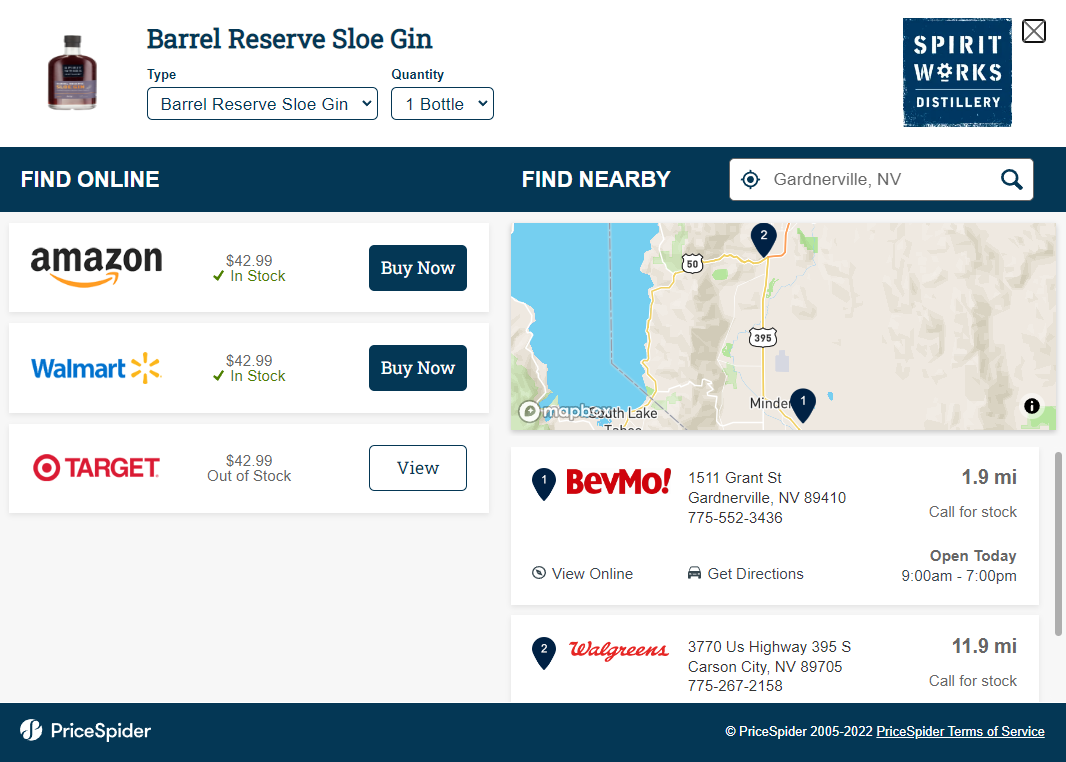
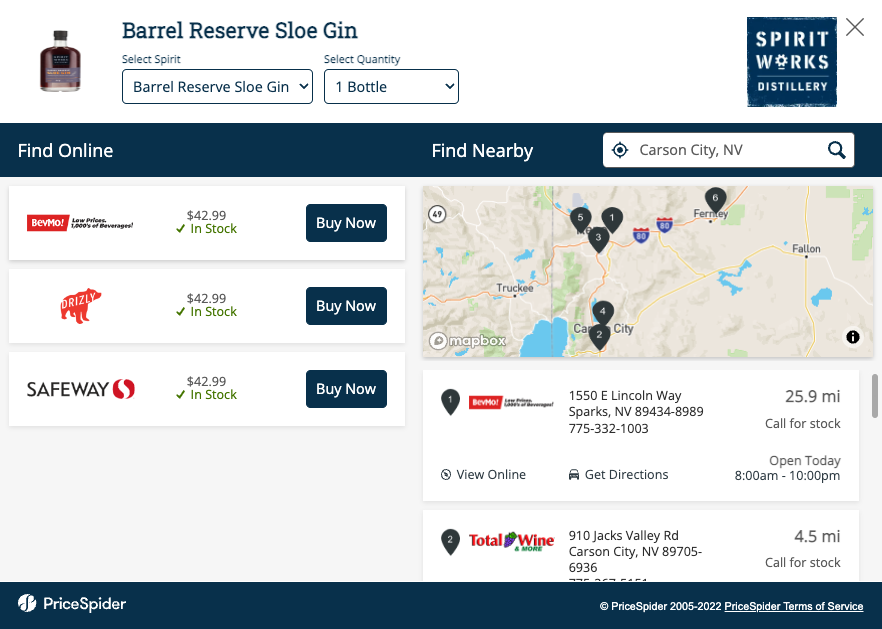
update README

diff --git a/templates/Product_Lightbox/script.js b/templates/Product_Lightbox/script.js
@@ -13,9 +13,9 @@ const onlineSellerImgs = []; // List of URL strings
 const localSellerImgs = []; // List of URL strings
 
 
-// ================================
-// MAKE CHANGES TO PRICESPIDER DATA
-// ================================
+// ==================================
+// MAKE CHANGES TO PRICESPIDER WIDGET
+// ==================================
 (function () {
     const psConfig = PriceSpider.widgetConfigs[widgetID];
 
@@ -59,15 +59,10 @@ const localSellerImgs = []; // List of URL strings
 
     const changeStockStatus = () => {
         PriceSpider.widgets[0].data.onlineSellers.forEach((seller, index) => {
-            if (index === 2) {
-                seller.status.outOfStock = true;
-                seller.stockStatus = 0;
-                seller.status.stock = "Out of Stock";
-            } else {
-                seller.status.inStock = true;
-                seller.stockStatus = 1;
-                seller.status.stock = "In Stock";
-            };
+            seller.status.inStock = true;
+            seller.status.outOfStock = false;
+            seller.stockStatus = 1;
+            seller.status.stock = "In Stock";
         });
     };
 
@@ -118,13 +113,11 @@ const localSellerImgs = []; // List of URL strings
 
     const changeLocalSellerImgs = () => {
         const localSellers = document.querySelectorAll(".ps-logo", ".ps-local-seller-button");
-        localSellers.forEach((seller, index) => seller.src = localSellerImgs[index]);
+        localSellerImgs.forEach((image, index) => localSellers[index].src = image);
     };
     
     const changeOnlineSellerImgs = () => {
-        const onlineSellers = document.querySelectorAll(".ps-online-seller-details-wrapper > div > img");
-        const lastSeller = document.querySelector(".ps-last-online-seller-details-wrapper > div > img");
-        onlineSellers.forEach((seller, index) => seller.src = onlineSellerImgs[index]);
-        lastSeller.src = onlineSellerImgs[onlineSellerImgs.length - 1];
+        const onlineSellers = document.querySelectorAll(".ps-online-seller-details-wrapper > div > img, .ps-last-online-seller-details-wrapper > div > img");
+        onlineSellerImgs.forEach((image, index) => onlineSellers[index].src = image)
     };
 })();

diff --git a/templates/Product_Lightbox/override.css b/templates/Product_Lightbox/override.css
@@ -71,18 +71,19 @@ div.ps-client-logo.inline>div>img {
     color: var(--dark-text);
 }
 
-.ps-product-selector > div {
+.ps-product-selector>div {
     display: flex;
     flex-direction: column;
     gap: 5px;
 }
 
 .ps-product-selector>div>label {
+    margin: 0;
     font-weight: 600;
     color: var(--dark-text);
 }
 
-.ps-product-selector > div > select {
+.ps-product-selector>div>select {
     height: auto;
     min-width: 150px;
     padding: 8px;
@@ -108,9 +109,10 @@ div.ps-client-logo.inline>div>img {
     border-color: var(--dark-text);
 }
 
-.ps-country-selector-holder > div > span {
+.ps-country-selector-holder>div>span {
     width: 100px;
-    margin-right: 100px; }
+    margin-right: 100px;
+}
 
 /* MAIN */
 .ps-ribbon {
@@ -124,10 +126,10 @@ div.ps-client-logo.inline>div>img {
     color: var(--ribbon-text);
 }
 
-.ps-ribbon.ps-desktop-left > div > div.ps-local-tab-label > label:hover, 
-.ps-ribbon.ps-desktop-left > div div.ps-online-tab-label > label:hover, 
-.ps-ribbon.ps-desktop-left > div > div.ps-local-tab-label > h2:hover, 
-.ps-ribbon.ps-desktop-left > div div.ps-online-tab-label > h2:hover {
+.ps-ribbon.ps-desktop-left>div>div.ps-local-tab-label>label:hover,
+.ps-ribbon.ps-desktop-left>div div.ps-online-tab-label>label:hover,
+.ps-ribbon.ps-desktop-left>div>div.ps-local-tab-label>h2:hover,
+.ps-ribbon.ps-desktop-left>div div.ps-online-tab-label>h2:hover {
     cursor: pointer;
 }
 
@@ -163,7 +165,7 @@ div.ps-client-logo.inline>div>img {
 }
 
 /* RESPONSIVE STYLES */
-@media screen and (min-width: 768px) {
+@media screen and (min-width: 767px) {
     .ps-product-selector {
         display: flex;
         gap: 12px;
@@ -173,9 +175,14 @@ div.ps-client-logo.inline>div>img {
 }
 
 @media screen and (max-width: 767px) {
-    .ps-lightbox .ps-wtb-content.ps-dual-column > .ps-location, 
-    .ps-lightbox .ps-wtb-content.ps-tabbed > .ps-location {
+    .ps-lightbox .ps-wtb-content.ps-dual-column>.ps-location,
+    .ps-lightbox .ps-wtb-content.ps-tabbed>.ps-location {
         background-color: var(--ribbon-background);
+    }
+
+    .ps-location>small,
+    .ps-location label {
+        padding: 0;
     }
 }
 

diff --git a/README.md b/README.md
@@ -22,27 +22,55 @@ This repo is a work in progress. Solutions Developers can collaborate here to cr
 
 ### The script.js file
 4. Open the *script.js* file and edit the variables to include the assets you want to appear on the screen. 
-    - Change the **widgetID** to match the widget you're working on.
+    - The **widgetID** is set to the template widget in the Prospective Demo account and doesn't need to be changed.
     - Change **prodName** and **prodImgUrl** to match a product of your choice.
     - The variables **price** and **formattedPrice** change the price displayed for online retailers.
     - If you're using product selectors, set **isProductSelector** to **true**. If you plan to use bubble selectors, set **isBubbleSelector** to **true**. Change the values of the **dropdownSelectors/bubbleSelectors** to whatever you want to display.
-    - Change the array values for **onlineSellerImgs** and **localSellerImgs** to be the URLs for the retailers you wish to display. Or you can make these arrays empty and the default sellers will appear. For online, the default sellers are Amazon, Walmart, and Target. For local, the default sellers will be whatever our crawler picked up for the test sku that you input into the widget.
+    - Change the array values for **onlineSellerImgs** and **localSellerImgs** to be the URLs for the retailers you wish to display. Or you can make these arrays empty and the default sellers will appear. For online, the default sellers are Amazon, Walmart, and Target. For local, the default sellers will be whatever our crawler picked up for the test sku that you input into the widget. You can find a list of PriceSpider images [here](https://github.com/ps-jkelly/ps-proof-templates/blob/main/sellerImgs.json). 
+    
+        [Example script.js file](https://github.com/ps-jkelly/ps-proof-templates/blob/main/templates/Product_Lightbox/example/script.js)
 
-    ![](images/scriptVariables.png)
+        ```javascript
+        const widgetID = "61c0a3400b9fd9001be2cc80";
+        const prodName = "Product Name";
+        const prodImgUrl = "https://www.neudesic.com/wp-content/uploads/priceSpider.jpg";
+        const price = 0.00;
+        const hasProductSelectors = true;
+        const useBubbleSelectors = false;
+        const dropdownSelectors = []; // List of objects. Example: { "label": "Product", "value": "Honey Nut Cheerios" }
+        const bubbleSelectors = []; // List of strings
+        const onlineSellerImgs = []; // List of URL strings
+        const localSellerImgs = []; // List of URL strings
+        ```
 
 ### The override.css file
-5. Change the variables to apply the color and border styles you wish to see in the widget. Feel free to make any other changes to the file that you deem necessary for your proof.
+5. Change the variables to apply the color and border styles you wish to see in the widget. Feel free to make any other changes to the file that you deem necessary for your proof. 
 
-    ![](images/cssVariables.png)
+    [Example override.css file](https://github.com/ps-jkelly/ps-proof-templates/blob/main/templates/Product_Lightbox/example/override.css)
 
-6. If you wish to disable "stock status" or "price" then this is where you do it. Simply un-comment the code at the bottom of the file.
-
-    ![](images/disableOptions.png)
+    ```css
+    :root {
+        --dark-text: #000;
+        --light-text: #fff;
+        --ribbon-background: var(--dark-text);
+        --ribbon-text: var(--light-text);
+        --footer-background: var(--ribbon-background);
+        --footer-text: var(--ribbon-text);
+        --search-icons: var(--dark-text);
+        --btn-color: var(--dark-text);
+        --btn-border-width: 1px;
+        --btn-border-radius: 0px;
+        --selectors-border-radius: var(--btn-border-radius);
+        --bubbles-border-radius: var(--btn-border-radius);
+        --geolocation-border-radius: var(--btn-border-radius);
+        --online-local-background-color: #f7f7f7;
+    }
+    ```
 
 ### Implement on Timberlake
 7. Log into *Prospective Demo* on Insights.
 8. Log into Timberlake and select *Templates* from the "Select a Brand" dropdown.
-9. Select the widget type and then widget you want to make. (for now, select only *Stadard (Product)* > *Product Lightbox*)
+9. Select the widget type and then the widget you want to make.
 10. Click on the variant that you use for creating proofs, or create one if you don't already have one. (for a working example, click on **jk-demo**)
 11. Toggle on *Brand Logo*, *Product Selector*, and *Product Selector Label* if using. Then click Build > Save.
 12. Go to the **Asset Manager** and upload your *script.js* and *override.css* files. Also upload a logo and font if you're using them.
